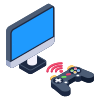
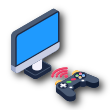
Add shadows to images for slightly better asthetics

Changed region(s): [[0.06, 0.03, 0.96, 0.99]]

diff --git a/ui/resources/css/AllGames.css b/ui/resources/css/AllGames.css
@@ -31,7 +31,7 @@ tr:nth-child(even):hover {
 }
 
 tr:nth-child(even) {
-  background-color: #bccad6 !important;
+  background-color: #cddbe7 !important;
 }
 
 /* Table Cell & Column styles */
@@ -53,6 +53,7 @@ td:first-child img {
   margin-left: auto;
   margin-right: auto;
   display: block;
+  box-shadow: 4px 4px 4px gray;
 }
 
 /* Define specific styles for the Name column */

diff --git a/ui/resources/css/Summary.css b/ui/resources/css/Summary.css
@@ -162,7 +162,7 @@ body {
   max-height: 90%;
   max-width: 90%;
   object-fit: contain;
-  border: 2px solid #555;
+  box-shadow: 4px 4px 4px gray;
 }
 
 #pc-icon {
